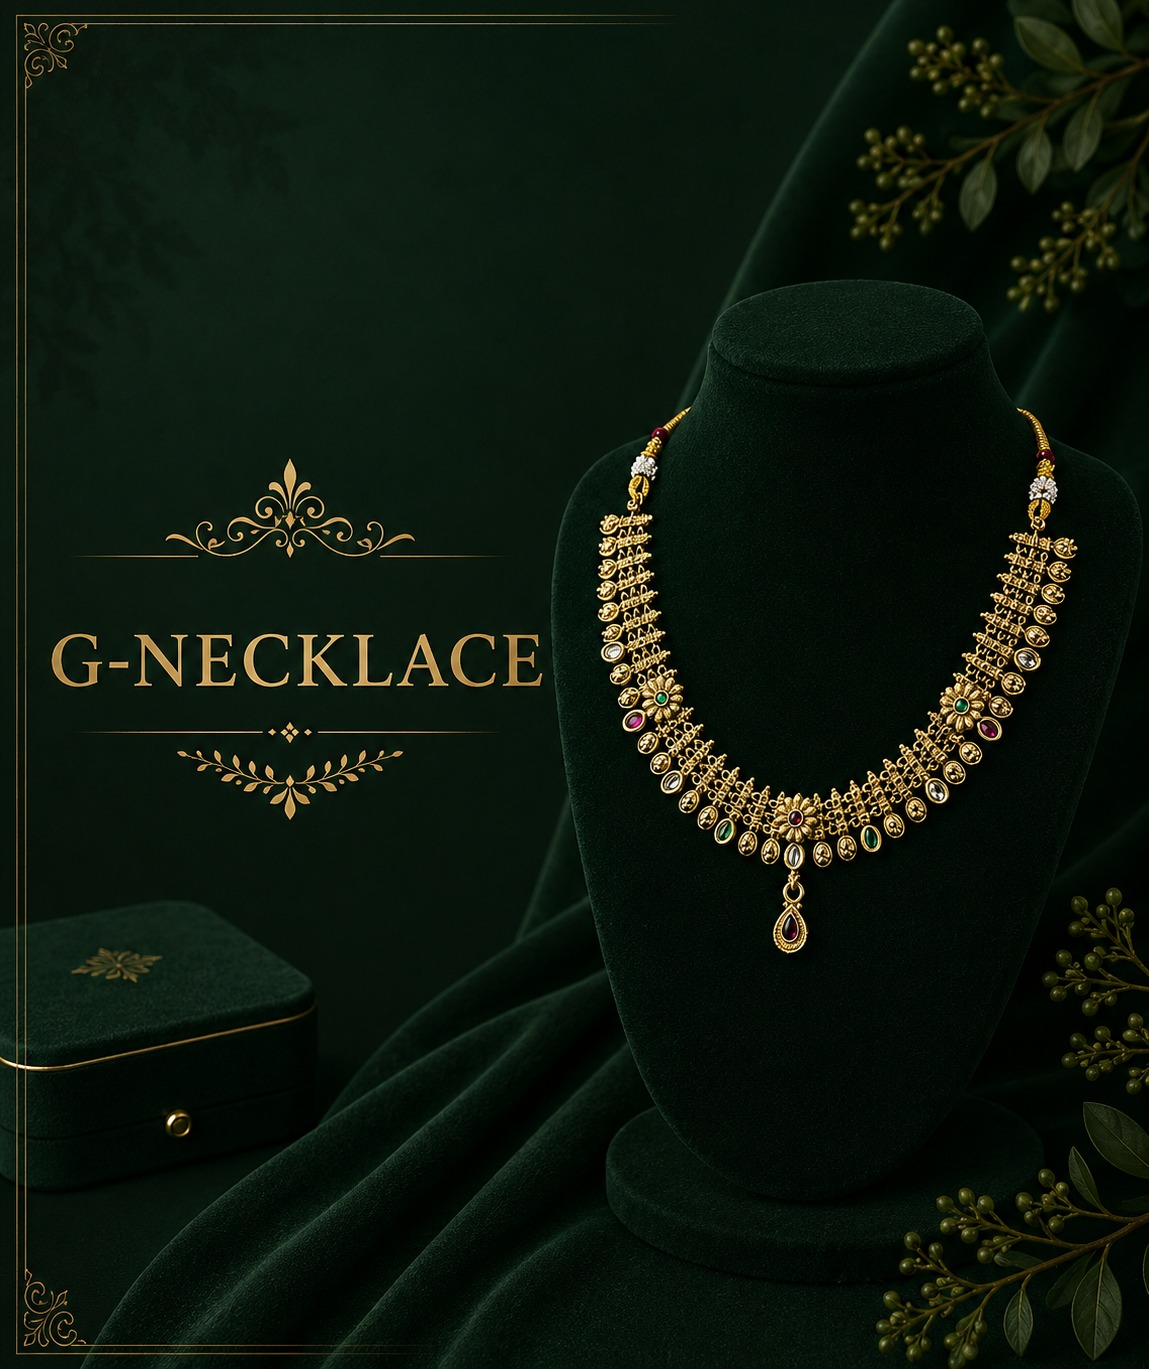
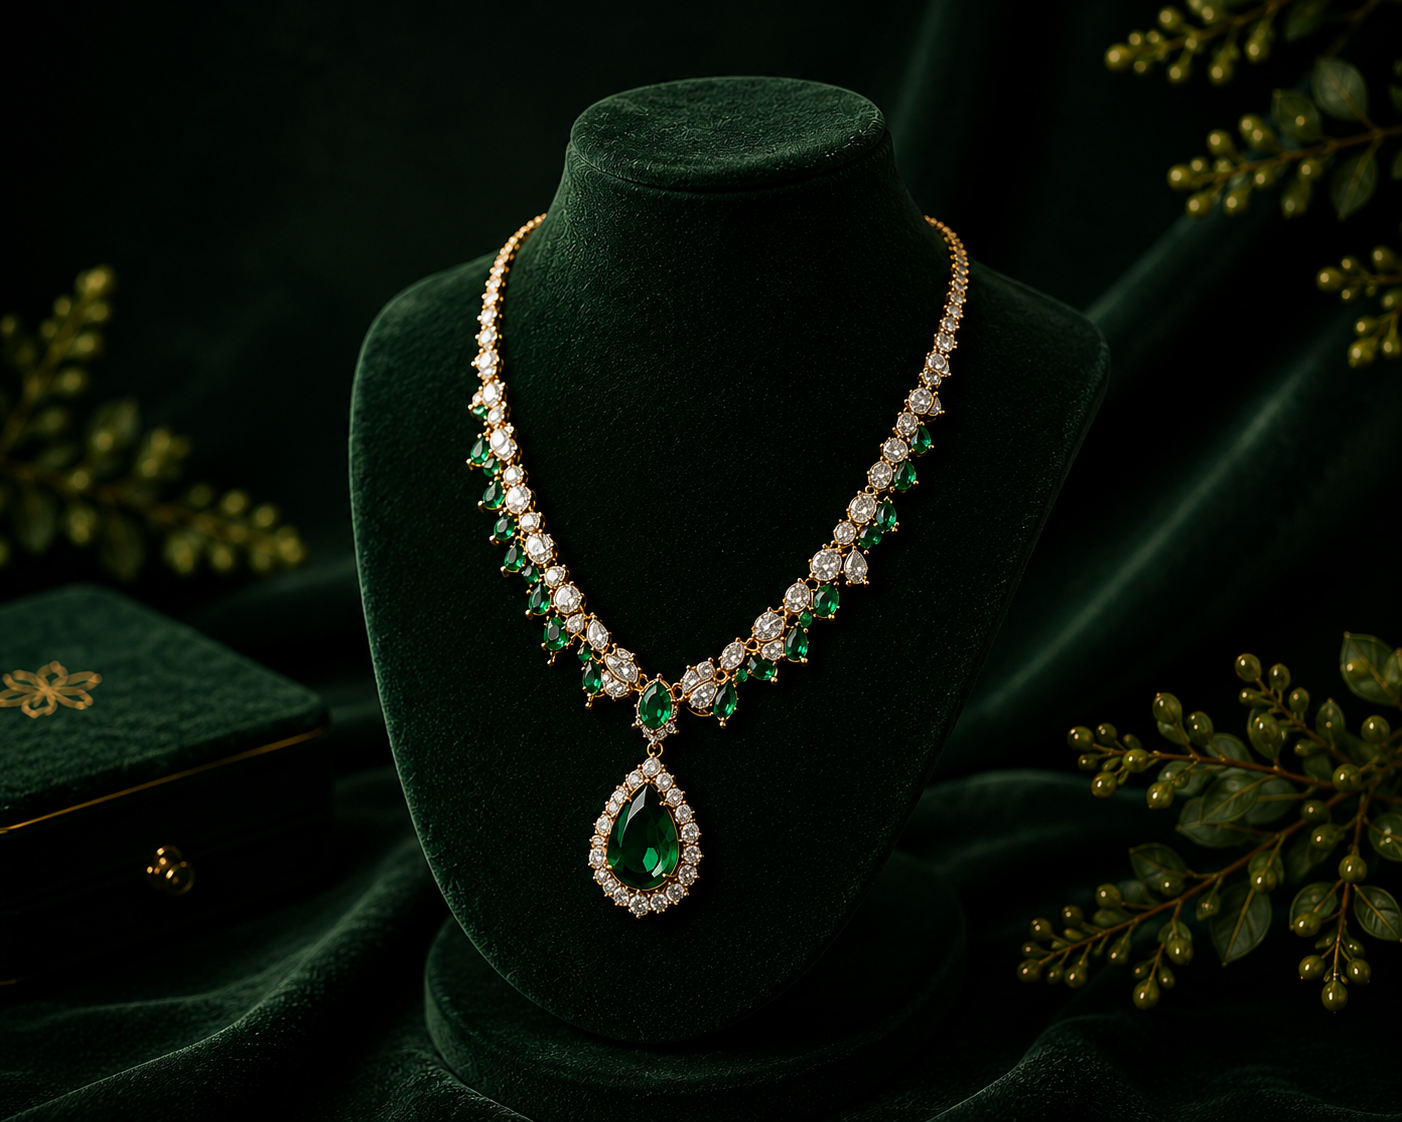
change catogory image

diff --git a/src/components/home/ShopByCategory.tsx b/src/components/home/ShopByCategory.tsx
@@ -12,7 +12,7 @@ const CATEGORIES = [
   {
     name: 'RINGS',
     subtitle: 'Elegance on Your Fingers',
-    image: '/categories/ring.jpeg',
+    image: '/categories/Ring.png',
     icon: (
       <svg width="100%" height="100%" viewBox="0 0 64 64" fill="none" stroke="currentColor" strokeWidth="1.5" strokeLinecap="round" strokeLinejoin="round">
         <g transform="translate(-4, 0)">
@@ -31,7 +31,7 @@ const CATEGORIES = [
   {
     name: 'BRACELETS',
     subtitle: 'A Touch of Grace',
-    image: '/categories/bracelet.png',
+    image: '/categories/bracelete.png',
     icon: (
       <svg width="100%" height="100%" viewBox="0 0 64 64" fill="none" stroke="currentColor" strokeWidth="1.5">
         <path d="M26 16 A 18 18 0 1 0 38 16" />
@@ -44,7 +44,7 @@ const CATEGORIES = [
   {
     name: 'NECKLACES',
     subtitle: 'Close to Your Heart',
-    image: '/categories/gemstones.png',
+    image: '/categories/Necklace.png',
     icon: (
       <svg width="100%" height="100%" viewBox="0 0 64 64" fill="none" stroke="currentColor" strokeWidth="1.5">
         <g transform="translate(0, -5)">
@@ -57,7 +57,7 @@ const CATEGORIES = [
   {
     name: 'PENDANTS',
     subtitle: 'Your Signature Style',
-    image: '/categories/pendant.png',
+    image: '/categories/Pendalset.png',
     icon: (
       <svg width="100%" height="100%" viewBox="0 0 64 64" fill="none" stroke="currentColor" strokeWidth="1.5">
         <g transform="translate(0, -4)">
@@ -69,23 +69,9 @@ const CATEGORIES = [
     )
   },
   {
-    name: 'CUFFLINKS',
-    subtitle: "A Gentleman's Choice",
-    image: '/categories/cufflinks.png',
-    icon: (
-      <svg width="100%" height="100%" viewBox="0 0 64 64" fill="none" stroke="currentColor" strokeWidth="1.5">
-        <circle cx="26" cy="30" r="10" />
-        <path d="M22 28 A 2 2 0 0 1 26 26 A 2 2 0 0 1 30 28 Q 26 32 26 34 Q 22 32 22 28 Z" fill="currentColor" />
-        <circle cx="44" cy="36" r="8" />
-        <circle cx="44" cy="36" r="2" />
-        <path d="M20 38 L 12 46 M 38 42 L 32 48" />
-      </svg>
-    )
-  },
-  {
     name: 'EARRINGS',
     subtitle: 'Shine With Every Move',
-    image: '/categories/earrings.png',
+    image: '/categories/Ernings.png',
     icon: (
       <svg width="100%" height="100%" viewBox="0 0 64 64" fill="none" stroke="currentColor" strokeWidth="1.5">
         <path d="M22 32 C 16 42 16 52 22 56 C 28 52 28 42 22 32 Z" />
@@ -93,20 +79,6 @@ const CATEGORIES = [
         <path d="M22 32 C 22 20 28 16 28 10" />
         <path d="M42 32 C 42 20 48 16 48 10" />
         <path d="M22 40 V 48 M 42 40 V 48" />
-      </svg>
-    )
-  },
-  {
-    name: 'GEMSTONES',
-    subtitle: "Nature's Masterpiece",
-    image: '/categories/gemstones.png',
-    icon: (
-      <svg width="100%" height="100%" viewBox="0 0 64 64" fill="none" stroke="currentColor" strokeWidth="1.5">
-        <polygon points="32 12 12 28 32 56 52 28 32 12" />
-        <polygon points="32 12 22 28 32 56 42 28 32 12" />
-        <line x1="12" y1="28" x2="52" y2="28" />
-        <line x1="22" y1="28" x2="28" y2="44" />
-        <line x1="42" y1="28" x2="36" y2="44" />
       </svg>
     )
   }
@@ -155,6 +127,7 @@ export default function ShopByCategory() {
                   alt={cat.name}
                   fill
                   priority
+                  unoptimized={true}
                   className={styles['category-img']}
                 />
 

diff --git a/src/components/home/ShopByCategory.module.css b/src/components/home/ShopByCategory.module.css
@@ -112,13 +112,14 @@
 .category-img {
   width: 100%;
   height: 100%;
-  object-fit: cover;
-  object-position: left center;
-  transform: scale(1.05);
+  object-fit: contain;
+  object-position: center;
+  padding-top: 35px;
+  transform: scale(1);
   transition: transform 0.6s ease;
 }
 .category-card:hover .category-img {
-  transform: scale(1.08);
+  transform: scale(1.05);
 }
 
 .collection-tag {

diff --git a/src/components/home/FeaturedProducts.module.css b/src/components/home/FeaturedProducts.module.css
@@ -642,8 +642,9 @@
     font-size: 10px;
   }
   .price-row {
-    flex-direction: column;
-    align-items: flex-start;
+    flex-direction: row;
+    align-items: center;
+    justify-content: space-between;
     gap: 4px;
     margin-bottom: 10px;
   }

diff --git a/src/components/home/Hero.module.css b/src/components/home/Hero.module.css
@@ -55,7 +55,7 @@
 .hero-overlay {
   position: absolute;
   inset: 0;
-  background: linear-gradient(180deg, rgba(0, 0, 0, 0.45) 0%, rgba(0, 0, 0, 0.15) 50%, rgba(0, 0, 0, 0.55) 100%);
+  background: linear-gradient(180deg, rgba(1, 10, 7, 0.7) 0%, rgba(1, 10, 7, 0.2) 50%, rgba(1, 10, 7, 0.6) 85%, #010a07 100%);
   z-index: 2;
   pointer-events: none;
 }